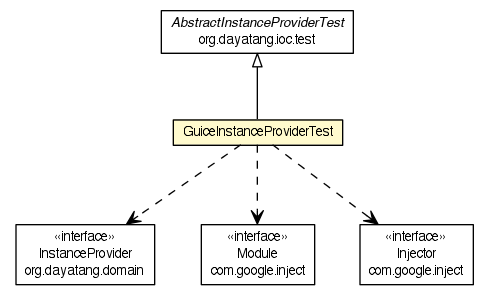
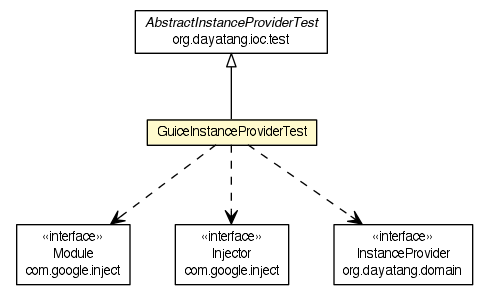
wagon-git commit

diff --git a/dddlib-ioc/dddlib-ioc-guice/testapidocs/org/dayatang/ioc/guice/GuiceInstanceProviderTest.html b/dddlib-ioc/dddlib-ioc-guice/testapidocs/org/dayatang/ioc/guice/GuiceInstanceProviderTest.html
@@ -2,7 +2,7 @@
 <!-- NewPage -->
 <html lang="en">
 <head>
-<!-- Generated by javadoc (version 1.7.0_67) on Mon Oct 06 21:18:10 CST 2014 -->
+<!-- Generated by javadoc (version 1.7.0_67) on Mon Oct 06 22:03:29 CST 2014 -->
 <meta http-equiv="Content-Type" content="text/html" charset="UTF-8">
 <title>GuiceInstanceProviderTest (DDDLib IoC implemented by Google Guice 4.4.1-SNAPSHOT Test API)</title>
 <meta name="date" content="2014-10-06">
@@ -82,16 +82,16 @@
 <div class="subTitle">org.dayatang.ioc.guice</div>
 <h2 title="Class GuiceInstanceProviderTest" class="title">Class GuiceInstanceProviderTest</h2>
 <map id="G" name="G">
-<area shape="rect" id="node1_0" href="./GuiceInstanceProviderTest.html" title="org.dayatang.ioc.guice.GuiceInstanceProviderTest" alt="" coords="173,119,342,145"/>
-<area shape="rect" id="node1" href="./GuiceInstanceProviderTest.html" title="&lt;TABLE&gt;" alt="" coords="162,108,353,156"/>
-<area shape="rect" id="node3_1" href="http://java.sun.com/j2se/1.4.2/docs/api/org/dayatang/domain/InstanceProvider.html" title="org.dayatang.domain.InstanceProvider" alt="" coords="16,224,155,284"/>
-<area shape="rect" id="node3" href="http://java.sun.com/j2se/1.4.2/docs/api/org/dayatang/domain/InstanceProvider.html" title="&lt;TABLE&gt;" alt="" coords="5,219,165,289"/>
-<area shape="rect" id="node4_2" href="http://java.sun.com/j2se/1.4.2/docs/api/com/google/inject/Module.html" title="com.google.inject.Module" alt="" coords="201,224,314,284"/>
-<area shape="rect" id="node4" href="http://java.sun.com/j2se/1.4.2/docs/api/com/google/inject/Module.html" title="&lt;TABLE&gt;" alt="" coords="190,219,325,289"/>
-<area shape="rect" id="node5_3" href="http://java.sun.com/j2se/1.4.2/docs/api/com/google/inject/Injector.html" title="com.google.inject.Injector" alt="" coords="359,224,473,284"/>
-<area shape="rect" id="node5" href="http://java.sun.com/j2se/1.4.2/docs/api/com/google/inject/Injector.html" title="&lt;TABLE&gt;" alt="" coords="349,219,483,289"/>
-<area shape="rect" id="node2_4" href="http://java.sun.com/j2se/1.4.2/docs/api/org/dayatang/ioc/test/AbstractInstanceProviderTest.html" title="org.dayatang.ioc.test.AbstractInstanceProviderTest" alt="" coords="161,11,353,53"/>
-<area shape="rect" id="node2" href="http://java.sun.com/j2se/1.4.2/docs/api/org/dayatang/ioc/test/AbstractInstanceProviderTest.html" title="&lt;TABLE&gt;" alt="" coords="151,5,364,59"/>
+<area shape="rect" id="node1_0" href="./GuiceInstanceProviderTest.html" title="org.dayatang.ioc.guice.GuiceInstanceProviderTest" alt="" coords="147,119,316,145"/>
+<area shape="rect" id="node1" href="./GuiceInstanceProviderTest.html" title="&lt;TABLE&gt;" alt="" coords="136,108,327,156"/>
+<area shape="rect" id="node3_1" href="http://java.sun.com/j2se/1.4.2/docs/api/com/google/inject/Module.html" title="com.google.inject.Module" alt="" coords="16,224,129,284"/>
+<area shape="rect" id="node3" href="http://java.sun.com/j2se/1.4.2/docs/api/com/google/inject/Module.html" title="&lt;TABLE&gt;" alt="" coords="5,219,140,289"/>
+<area shape="rect" id="node4_2" href="http://java.sun.com/j2se/1.4.2/docs/api/com/google/inject/Injector.html" title="com.google.inject.Injector" alt="" coords="175,224,288,284"/>
+<area shape="rect" id="node4" href="http://java.sun.com/j2se/1.4.2/docs/api/com/google/inject/Injector.html" title="&lt;TABLE&gt;" alt="" coords="164,219,299,289"/>
+<area shape="rect" id="node5_3" href="http://java.sun.com/j2se/1.4.2/docs/api/org/dayatang/domain/InstanceProvider.html" title="org.dayatang.domain.InstanceProvider" alt="" coords="334,224,473,284"/>
+<area shape="rect" id="node5" href="http://java.sun.com/j2se/1.4.2/docs/api/org/dayatang/domain/InstanceProvider.html" title="&lt;TABLE&gt;" alt="" coords="323,219,483,289"/>
+<area shape="rect" id="node2_4" href="http://java.sun.com/j2se/1.4.2/docs/api/org/dayatang/ioc/test/AbstractInstanceProviderTest.html" title="org.dayatang.ioc.test.AbstractInstanceProviderTest" alt="" coords="135,11,327,53"/>
+<area shape="rect" id="node2" href="http://java.sun.com/j2se/1.4.2/docs/api/org/dayatang/ioc/test/AbstractInstanceProviderTest.html" title="&lt;TABLE&gt;" alt="" coords="125,5,338,59"/>
 </map>
 <!-- UML diagram added by UMLGraph version R5_6_6-8-g8d7759 (http://www.umlgraph.org/) -->
 <div align="center"><img src="GuiceInstanceProviderTest.png" alt="Package class diagram package GuiceInstanceProviderTest" usemap="#G" border=0/></div>
@@ -168,7 +168,7 @@ extends org.dayatang.ioc.test.AbstractInstanceProviderTest</pre>
 <th class="colLast" scope="col">Method and Description</th>
 </tr>
 <tr class="altColor">
-<td class="colFirst"><code>protected <a href="http://www.dayatang.org/dddlib/dddlib-domain/apidocs/org/dayatang/domain/InstanceProvider.html?is-external=true" title="class or interface in org.dayatang.domain">InstanceProvider</a></code></td>
+<td class="colFirst"><code>protected org.dayatang.domain.InstanceProvider</code></td>
 <td class="colLast"><code><strong><a href="../../../../org/dayatang/ioc/guice/GuiceInstanceProviderTest.html#createInstanceProvider()">createInstanceProvider</a></strong>()</code>&nbsp;</td>
 </tr>
 <tr class="rowColor">
@@ -253,7 +253,7 @@ extends org.dayatang.ioc.test.AbstractInstanceProviderTest</pre>
 <ul class="blockList">
 <li class="blockList">
 <h4>createInstanceProvider</h4>
-<pre>protected&nbsp;<a href="http://www.dayatang.org/dddlib/dddlib-domain/apidocs/org/dayatang/domain/InstanceProvider.html?is-external=true" title="class or interface in org.dayatang.domain">InstanceProvider</a>&nbsp;createInstanceProvider()</pre>
+<pre>protected&nbsp;org.dayatang.domain.InstanceProvider&nbsp;createInstanceProvider()</pre>
 <dl>
 <dt><strong>Specified by:</strong></dt>
 <dd><code>createInstanceProvider</code>&nbsp;in class&nbsp;<code>org.dayatang.ioc.test.AbstractInstanceProviderTest</code></dd>

diff --git a/dddlib-ioc/dddlib-ioc-guice/apidocs/org/dayatang/ioc/guice/GuiceInstanceProvider.html b/dddlib-ioc/dddlib-ioc-guice/apidocs/org/dayatang/ioc/guice/GuiceInstanceProvider.html
@@ -2,7 +2,7 @@
 <!-- NewPage -->
 <html lang="en">
 <head>
-<!-- Generated by javadoc (version 1.7.0_67) on Mon Oct 06 21:18:08 CST 2014 -->
+<!-- Generated by javadoc (version 1.7.0_67) on Mon Oct 06 22:03:28 CST 2014 -->
 <meta http-equiv="Content-Type" content="text/html" charset="UTF-8">
 <title>GuiceInstanceProvider (DDDLib IoC implemented by Google Guice 4.4.1-SNAPSHOT API)</title>
 <meta name="date" content="2014-10-06">
@@ -106,13 +106,13 @@
 <li class="blockList">
 <dl>
 <dt>All Implemented Interfaces:</dt>
-<dd><a href="http://www.dayatang.org/dddlib/dddlib-domain/apidocs/org/dayatang/domain/InstanceProvider.html?is-external=true" title="class or interface in org.dayatang.domain">InstanceProvider</a></dd>
+<dd>org.dayatang.domain.InstanceProvider</dd>
 </dl>
 <hr>
 <br>
 <pre>public class <span class="strong">GuiceInstanceProvider</span>
 extends <a href="http://docs.oracle.com/javase/6/docs/api/java/lang/Object.html?is-external=true" title="class or interface in java.lang">Object</a>
-implements <a href="http://www.dayatang.org/dddlib/dddlib-domain/apidocs/org/dayatang/domain/InstanceProvider.html?is-external=true" title="class or interface in org.dayatang.domain">InstanceProvider</a></pre>
+implements org.dayatang.domain.InstanceProvider</pre>
 <div class="block">实例提供者接口的Google Guice实现。</div>
 <dl><dt><span class="strong">Author:</span></dt>
   <dd>yyang (<a href="mailto:gdyangyu@gmail.com">gdyangyu@gmail.com</a>)</dd></dl>
@@ -247,7 +247,7 @@ implements <a href="http://www.dayatang.org/dddlib/dddlib-domain/apidocs/org/day
 <div class="block">根据类型获取对象实例。返回的对象实例所属的类是T或它的实现类或子类。如果找不到该类型的实例则返回null。</div>
 <dl>
 <dt><strong>Specified by:</strong></dt>
-<dd><code><a href="http://www.dayatang.org/dddlib/dddlib-domain/apidocs/org/dayatang/domain/InstanceProvider.html?is-external=true#getInstance(java.lang.Class)" title="class or interface in org.dayatang.domain">getInstance</a></code>&nbsp;in interface&nbsp;<code><a href="http://www.dayatang.org/dddlib/dddlib-domain/apidocs/org/dayatang/domain/InstanceProvider.html?is-external=true" title="class or interface in org.dayatang.domain">InstanceProvider</a></code></dd>
+<dd><code>getInstance</code>&nbsp;in interface&nbsp;<code>org.dayatang.domain.InstanceProvider</code></dd>
 <dt><span class="strong">Type Parameters:</span></dt><dd><code>T</code> - 类型参数</dd><dt><span class="strong">Parameters:</span></dt><dd><code>beanType</code> - 实例的类型</dd>
 <dt><span class="strong">Returns:</span></dt><dd>指定类型的实例。</dd></dl>
 </li>
@@ -269,7 +269,7 @@ implements <a href="http://www.dayatang.org/dddlib/dddlib-domain/apidocs/org/day
  那么getInstance(Service.class, "service2")将返回MyService2的实例。</div>
 <dl>
 <dt><strong>Specified by:</strong></dt>
-<dd><code><a href="http://www.dayatang.org/dddlib/dddlib-domain/apidocs/org/dayatang/domain/InstanceProvider.html?is-external=true#getInstance(java.lang.Class,%20java.lang.String)" title="class or interface in org.dayatang.domain">getInstance</a></code>&nbsp;in interface&nbsp;<code><a href="http://www.dayatang.org/dddlib/dddlib-domain/apidocs/org/dayatang/domain/InstanceProvider.html?is-external=true" title="class or interface in org.dayatang.domain">InstanceProvider</a></code></dd>
+<dd><code>getInstance</code>&nbsp;in interface&nbsp;<code>org.dayatang.domain.InstanceProvider</code></dd>
 <dt><span class="strong">Type Parameters:</span></dt><dd><code>T</code> - 类型参数</dd><dt><span class="strong">Parameters:</span></dt><dd><code>beanName</code> - 实现类在容器中配置的名字</dd><dd><code>beanType</code> - 实例的类型</dd>
 <dt><span class="strong">Returns:</span></dt><dd>指定类型的实例。</dd></dl>
 </li>
@@ -291,7 +291,7 @@ implements <a href="http://www.dayatang.org/dddlib/dddlib-domain/apidocs/org/day
  那么getInstance(Service.class, MyAnnotation.class)将返回MyService2的实例。</div>
 <dl>
 <dt><strong>Specified by:</strong></dt>
-<dd><code><a href="http://www.dayatang.org/dddlib/dddlib-domain/apidocs/org/dayatang/domain/InstanceProvider.html?is-external=true#getInstance(java.lang.Class,%20java.lang.Class)" title="class or interface in org.dayatang.domain">getInstance</a></code>&nbsp;in interface&nbsp;<code><a href="http://www.dayatang.org/dddlib/dddlib-domain/apidocs/org/dayatang/domain/InstanceProvider.html?is-external=true" title="class or interface in org.dayatang.domain">InstanceProvider</a></code></dd>
+<dd><code>getInstance</code>&nbsp;in interface&nbsp;<code>org.dayatang.domain.InstanceProvider</code></dd>
 <dt><span class="strong">Type Parameters:</span></dt><dd><code>T</code> - 类型参数</dd><dt><span class="strong">Parameters:</span></dt><dd><code>beanType</code> - 实例的类型</dd><dd><code>annotationType</code> - 实现类的annotation类型</dd>
 <dt><span class="strong">Returns:</span></dt><dd>指定类型的实例。</dd></dl>
 </li>

diff --git a/dddlib-ioc/dddlib-ioc-guice/dependencies.html b/dddlib-ioc/dddlib-ioc-guice/dependencies.html
@@ -505,29 +505,29 @@
 <td>1.6</td>
 <td>debug</td></tr>
 <tr class="a">
-<td>dddlib-domain/target/classes</td>
-<td>-</td>
-<td>0</td>
-<td>0</td>
-<td>0</td>
-<td>-</td>
-<td>release</td></tr>
+<td>dddlib-domain-4.4.1-SNAPSHOT.jar</td>
+<td>81.40 kB</td>
+<td>95</td>
+<td>83</td>
+<td>5</td>
+<td>1.6</td>
+<td>debug</td></tr>
 <tr class="b">
-<td>dddlib-ioc-test/target/classes</td>
-<td>-</td>
-<td>0</td>
-<td>0</td>
-<td>0</td>
-<td>-</td>
-<td>release</td></tr>
+<td>dddlib-ioc-test-4.4.1-SNAPSHOT.jar</td>
+<td>6.82 kB</td>
+<td>16</td>
+<td>10</td>
+<td>1</td>
+<td>1.6</td>
+<td>debug</td></tr>
 <tr class="a">
-<td>dddlib-utils/target/classes</td>
-<td>-</td>
-<td>0</td>
-<td>0</td>
-<td>0</td>
-<td>-</td>
-<td>release</td></tr>
+<td>dddlib-utils-4.4.1-SNAPSHOT.jar</td>
+<td>26.16 kB</td>
+<td>24</td>
+<td>17</td>
+<td>2</td>
+<td>1.6</td>
+<td>debug</td></tr>
 <tr class="b">
 <td>javax.persistence-2.1.0.jar</td>
 <td>158.33 kB</td>
@@ -578,28 +578,28 @@
 <th>&#x8c03;&#x8bd5;</th></tr>
 <tr class="b">
 <td>15</td>
-<td>5.34 MB</td>
-<td>4,637</td>
-<td>3,843</td>
-<td>161</td>
+<td>5.46 MB</td>
+<td>4,772</td>
+<td>3,953</td>
+<td>169</td>
 <td>1.6</td>
-<td>11</td></tr>
+<td>14</td></tr>
 <tr class="a">
 <td>compile: 10</td>
-<td>compile: 3.61 MB</td>
-<td>compile: 3,016</td>
-<td>compile: 2,888</td>
-<td>compile: 59</td>
+<td>compile: 3.71 MB</td>
+<td>compile: 3,135</td>
+<td>compile: 2,988</td>
+<td>compile: 66</td>
 <td>-</td>
-<td>compile: 7</td></tr>
+<td>compile: 9</td></tr>
 <tr class="b">
 <td>test: 5</td>
-<td>test: 1.73 MB</td>
-<td>test: 1,621</td>
-<td>test: 955</td>
-<td>test: 102</td>
+<td>test: 1.74 MB</td>
+<td>test: 1,637</td>
+<td>test: 965</td>
+<td>test: 103</td>
 <td>-</td>
-<td>test: 4</td></tr></table></div>
+<td>test: 5</td></tr></table></div>
       </div>
     </div>
     <div class="clear">

diff --git a/dddlib-ioc/dddlib-ioc-guice/apidocs/org/dayatang/ioc/guice/package-tree.html b/dddlib-ioc/dddlib-ioc-guice/apidocs/org/dayatang/ioc/guice/package-tree.html
@@ -2,7 +2,7 @@
 <!-- NewPage -->
 <html lang="en">
 <head>
-<!-- Generated by javadoc (version 1.7.0_67) on Mon Oct 06 21:18:08 CST 2014 -->
+<!-- Generated by javadoc (version 1.7.0_67) on Mon Oct 06 22:03:28 CST 2014 -->
 <meta http-equiv="Content-Type" content="text/html" charset="UTF-8">
 <title>org.dayatang.ioc.guice Class Hierarchy (DDDLib IoC implemented by Google Guice 4.4.1-SNAPSHOT API)</title>
 <meta name="date" content="2014-10-06">
@@ -70,7 +70,7 @@
 <ul>
 <li type="circle">java.lang.<a href="http://docs.oracle.com/javase/6/docs/api/java/lang/Object.html?is-external=true" title="class or interface in java.lang"><span class="strong">Object</span></a>
 <ul>
-<li type="circle">org.dayatang.ioc.guice.<a href="../../../../org/dayatang/ioc/guice/GuiceInstanceProvider.html" title="class in org.dayatang.ioc.guice"><span class="strong">GuiceInstanceProvider</span></a> (implements org.dayatang.domain.<a href="http://www.dayatang.org/dddlib/dddlib-domain/apidocs/org/dayatang/domain/InstanceProvider.html?is-external=true" title="class or interface in org.dayatang.domain">InstanceProvider</a>)</li>
+<li type="circle">org.dayatang.ioc.guice.<a href="../../../../org/dayatang/ioc/guice/GuiceInstanceProvider.html" title="class in org.dayatang.ioc.guice"><span class="strong">GuiceInstanceProvider</span></a> (implements org.dayatang.domain.InstanceProvider)</li>
 <li type="circle">org.dayatang.ioc.guice.<a href="../../../../org/dayatang/ioc/guice/GuiceIocUtils.html" title="class in org.dayatang.ioc.guice"><span class="strong">GuiceIocUtils</span></a></li>
 </ul>
 </li>

diff --git a/dddlib-ioc/dddlib-ioc-guice/apidocs/overview-tree.html b/dddlib-ioc/dddlib-ioc-guice/apidocs/overview-tree.html
@@ -2,7 +2,7 @@
 <!-- NewPage -->
 <html lang="en">
 <head>
-<!-- Generated by javadoc (version 1.7.0_67) on Mon Oct 06 21:18:08 CST 2014 -->
+<!-- Generated by javadoc (version 1.7.0_67) on Mon Oct 06 22:03:28 CST 2014 -->
 <meta http-equiv="Content-Type" content="text/html" charset="UTF-8">
 <title>Class Hierarchy (DDDLib IoC implemented by Google Guice 4.4.1-SNAPSHOT API)</title>
 <meta name="date" content="2014-10-06">
@@ -74,7 +74,7 @@
 <ul>
 <li type="circle">java.lang.<a href="http://docs.oracle.com/javase/6/docs/api/java/lang/Object.html?is-external=true" title="class or interface in java.lang"><span class="strong">Object</span></a>
 <ul>
-<li type="circle">org.dayatang.ioc.guice.<a href="org/dayatang/ioc/guice/GuiceInstanceProvider.html" title="class in org.dayatang.ioc.guice"><span class="strong">GuiceInstanceProvider</span></a> (implements org.dayatang.domain.<a href="http://www.dayatang.org/dddlib/dddlib-domain/apidocs/org/dayatang/domain/InstanceProvider.html?is-external=true" title="class or interface in org.dayatang.domain">InstanceProvider</a>)</li>
+<li type="circle">org.dayatang.ioc.guice.<a href="org/dayatang/ioc/guice/GuiceInstanceProvider.html" title="class in org.dayatang.ioc.guice"><span class="strong">GuiceInstanceProvider</span></a> (implements org.dayatang.domain.InstanceProvider)</li>
 <li type="circle">org.dayatang.ioc.guice.<a href="org/dayatang/ioc/guice/GuiceIocUtils.html" title="class in org.dayatang.ioc.guice"><span class="strong">GuiceIocUtils</span></a></li>
 </ul>
 </li>

diff --git a/dddlib-ioc/dddlib-ioc-guice/surefire-report.html b/dddlib-ioc/dddlib-ioc-guice/surefire-report.html
@@ -143,7 +143,7 @@ function toggleDisplay(elementId) {
 <td>0</td>
 <td>0</td>
 <td>100%</td>
-<td>0.329</td></tr></table><br />
+<td>0.299</td></tr></table><br />
 <p>Note: failures are anticipated and checked for with assertions while errors are unanticipated.</p><br /></div>
 <div class="section">
 <h2><a name="Package_List"></a>Package List</h2><a name="Package_List"></a>
@@ -164,7 +164,7 @@ function toggleDisplay(elementId) {
 <td>0</td>
 <td>0</td>
 <td>100%</td>
-<td>0.329</td></tr></table><br />
+<td>0.299</td></tr></table><br />
 <p>Note: package statistics are not computed recursively, they only sum up all of its testsuites numbers.</p>
 <div class="section">
 <h3><a name="org.dayatang.ioc.guice"></a>org.dayatang.ioc.guice</h3><a name="org.dayatang.ioc.guice"></a>
@@ -186,7 +186,7 @@ function toggleDisplay(elementId) {
 <td>0</td>
 <td>0</td>
 <td>100%</td>
-<td>0.329</td></tr></table></div><br /></div>
+<td>0.299</td></tr></table></div><br /></div>
 <div class="section">
 <h2><a name="Test_Cases"></a>Test Cases</h2><a name="Test_Cases"></a>
 <p>[<a href="#Summary">Summary</a>] [<a href="#Package_List">Package List</a>] [<a href="#Test_Cases">Test Cases</a>]</p>
@@ -196,7 +196,7 @@ function toggleDisplay(elementId) {
 <tr class="a">
 <td><img src="images/icon_success_sml.gif" alt="" /></td>
 <td>testGetInstanceWithAnnotation</td>
-<td>0.315</td></tr>
+<td>0.285</td></tr>
 <tr class="b">
 <td><img src="images/icon_success_sml.gif" alt="" /></td>
 <td>testConstructorFromInjector</td>

diff --git a/dddlib-ioc/dddlib-ioc-guice/cobertura/frame-summary.html b/dddlib-ioc/dddlib-ioc-guice/cobertura/frame-summary.html
@@ -25,6 +25,6 @@ var packageTable = new SortableTable(document.getElementById("packageResults"),
     ["String", "Number", "Percentage", "Percentage", "FormattedNumber"]);
 packageTable.sort(0);
 </script>
-<div class="footer">Report generated by <a href="http://cobertura.sourceforge.net/" target="_top">Cobertura</a> 2.0.3 on 14-10-6 下午9:18.</div>
+<div class="footer">Report generated by <a href="http://cobertura.sourceforge.net/" target="_top">Cobertura</a> 2.0.3 on 14-10-6 下午10:03.</div>
 </body>
 </html>

diff --git a/dddlib-ioc/dddlib-ioc-guice/cobertura/frame-summary-org.dayatang.ioc.guice.html b/dddlib-ioc/dddlib-ioc-guice/cobertura/frame-summary-org.dayatang.ioc.guice.html
@@ -39,6 +39,6 @@ var classTable = new SortableTable(document.getElementById("classResults"),
     ["String", "Percentage", "Percentage", "FormattedNumber"]);
 classTable.sort(0);
 </script>
-<div class="footer">Report generated by <a href="http://cobertura.sourceforge.net/" target="_top">Cobertura</a> 2.0.3 on 14-10-6 下午9:18.</div>
+<div class="footer">Report generated by <a href="http://cobertura.sourceforge.net/" target="_top">Cobertura</a> 2.0.3 on 14-10-6 下午10:03.</div>
 </body>
 </html>

diff --git a/dddlib-ioc/dddlib-ioc-guice/testapidocs/org/dayatang/ioc/guice/class-use/GuiceInstanceProviderTest.html b/dddlib-ioc/dddlib-ioc-guice/testapidocs/org/dayatang/ioc/guice/class-use/GuiceInstanceProviderTest.html
@@ -2,7 +2,7 @@
 <!-- NewPage -->
 <html lang="en">
 <head>
-<!-- Generated by javadoc (version 1.7.0_67) on Mon Oct 06 21:18:10 CST 2014 -->
+<!-- Generated by javadoc (version 1.7.0_67) on Mon Oct 06 22:03:30 CST 2014 -->
 <meta http-equiv="Content-Type" content="text/html" charset="UTF-8">
 <title>Uses of Class org.dayatang.ioc.guice.GuiceInstanceProviderTest (DDDLib IoC implemented by Google Guice 4.4.1-SNAPSHOT Test API)</title>
 <meta name="date" content="2014-10-06">

diff --git a/dddlib-ioc/dddlib-ioc-guice/testapidocs/org/dayatang/ioc/guice/class-use/MyBindingAnnotation.html b/dddlib-ioc/dddlib-ioc-guice/testapidocs/org/dayatang/ioc/guice/class-use/MyBindingAnnotation.html
@@ -2,7 +2,7 @@
 <!-- NewPage -->
 <html lang="en">
 <head>
-<!-- Generated by javadoc (version 1.7.0_67) on Mon Oct 06 21:18:10 CST 2014 -->
+<!-- Generated by javadoc (version 1.7.0_67) on Mon Oct 06 22:03:30 CST 2014 -->
 <meta http-equiv="Content-Type" content="text/html" charset="UTF-8">
 <title>Uses of Class org.dayatang.ioc.guice.MyBindingAnnotation (DDDLib IoC implemented by Google Guice 4.4.1-SNAPSHOT Test API)</title>
 <meta name="date" content="2014-10-06">

diff --git a/dddlib-ioc/dddlib-ioc-guice/apidocs/org/dayatang/ioc/guice/class-use/GuiceInstanceProvider.html b/dddlib-ioc/dddlib-ioc-guice/apidocs/org/dayatang/ioc/guice/class-use/GuiceInstanceProvider.html
@@ -2,7 +2,7 @@
 <!-- NewPage -->
 <html lang="en">
 <head>
-<!-- Generated by javadoc (version 1.7.0_67) on Mon Oct 06 21:18:08 CST 2014 -->
+<!-- Generated by javadoc (version 1.7.0_67) on Mon Oct 06 22:03:28 CST 2014 -->
 <meta http-equiv="Content-Type" content="text/html" charset="UTF-8">
 <title>Uses of Class org.dayatang.ioc.guice.GuiceInstanceProvider (DDDLib IoC implemented by Google Guice 4.4.1-SNAPSHOT API)</title>
 <meta name="date" content="2014-10-06">

diff --git a/dddlib-ioc/dddlib-ioc-guice/testapidocs/org/dayatang/ioc/guice/class-use/Service3.html b/dddlib-ioc/dddlib-ioc-guice/testapidocs/org/dayatang/ioc/guice/class-use/Service3.html
@@ -2,7 +2,7 @@
 <!-- NewPage -->
 <html lang="en">
 <head>
-<!-- Generated by javadoc (version 1.7.0_67) on Mon Oct 06 21:18:10 CST 2014 -->
+<!-- Generated by javadoc (version 1.7.0_67) on Mon Oct 06 22:03:30 CST 2014 -->
 <meta http-equiv="Content-Type" content="text/html" charset="UTF-8">
 <title>Uses of Interface org.dayatang.ioc.guice.Service3 (DDDLib IoC implemented by Google Guice 4.4.1-SNAPSHOT Test API)</title>
 <meta name="date" content="2014-10-06">
